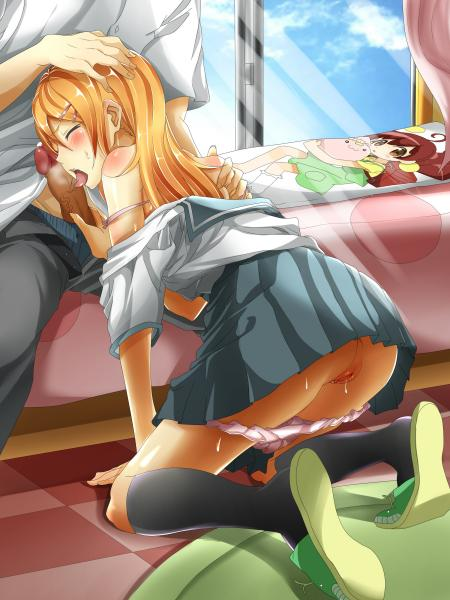
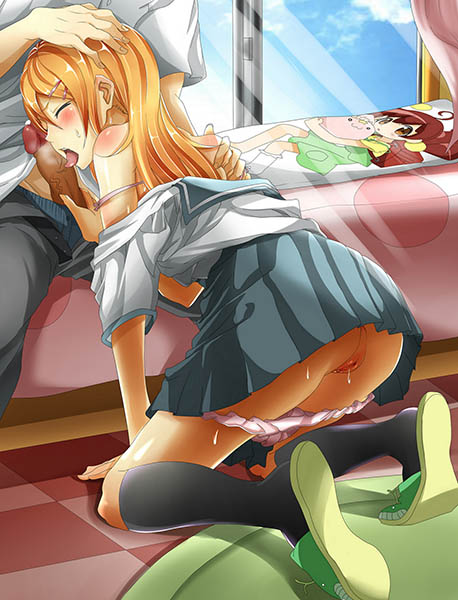
Additional images for Kirino
Replaced Group4.jpg, as this depicted female another character from Kirino's source that is not present in this story.

diff --git a/content/girls/Kirino/base.js b/content/girls/Kirino/base.js
@@ -23,20 +23,20 @@ Girls.Kirino = {
   images: {
     basePath: "content/girls/Kirino/images",
     base: "Base.png",
-    refuse: ["Refuse1.jpg", "Refuse2.jpg", "Refuse3.jpg"],
-    tired: ["Tired.jpg", "Tired2.jpg"],
-    soft: ["Soft1.jpg", "Soft2.jpg", "Soft3.jpg", "Soft4.jpg", "Soft5.jpg"],
-    hard: ["Hard1.jpg", "Hard2.jpg", "Hard3.jpg", "Hard4.jpg", "Hard5.jpg", "Hard6.jpg", "Hard7.jpg"],
-    anal: ["Anal1.jpg", "Anal2.jpg", "Anal3.jpg", "Anal4.jpg"],
-    fetish: ["Fet1.jpg", "Fet2.jpg", "Fet3.jpg", "Fet4.jpg", "Fet5.jpg", "Fet6.jpg"],
-    group: ["Group1.jpg", "Group2.jpg", "Group3.jpg", "Group4.jpg"],
-    cleaning: ["Cleaning1.jpg", "Cleaning2.jpg", "Cleaning3.jpg"],
+    refuse: ["Refuse1.jpg", "Refuse2.jpg", "Refuse3.jpg", "Refuse4.jpg", "Refuse5.jpg"],
+    tired: ["Tired.jpg", "Tired2.jpg", "Tired3.jpg", "Tired4.jpg", "Tired5.jpg"],
+    soft: ["Soft1.jpg", "Soft2.jpg", "Soft3.jpg", "Soft4.jpg", "Soft5.jpg", "Soft6.jpg", "Soft7.jpg", "Soft8.jpg", "Soft9.jpg", "Soft10.jpg", "Soft11.jpg"],
+    hard: ["Hard1.jpg", "Hard2.jpg", "Hard3.jpg", "Hard4.jpg", "Hard5.jpg", "Hard6.jpg", "Hard7.jpg", "Hard8.jpg", "Hard9.jpg"],
+    anal: ["Anal1.jpg", "Anal2.jpg", "Anal3.jpg", "Anal4.jpg", "Anal5.jpg", "Anal6.jpg", "Anal7.jpg"],
+    fetish: ["Fet1.jpg", "Fet2.jpg", "Fet3.jpg", "Fet4.jpg", "Fet5.jpg", "Fet6.jpg", "Fet7.jpg", "Fet8.jpg", "Fet9.jpg"],
+    group: ["Group1.jpg", "Group2.jpg", "Group3.jpg", "Group4.jpg", "Group5.jpg"],
+    cleaning: ["Cleaning1.jpg", "Cleaning2.jpg", "Cleaning3.jpg", "Cleaning4.jpg", "Cleaning5.jpg", "Cleaning6.jpg"],
     exercise: ["Exercise1.jpg", "Exercise2.jpg", "Exercise3.jpg", "Exercise4.jpg"],
     study: ["Study1.jpg", "Study2.jpg", "Study3.jpg"],
     naked: ["Naked1.jpg", "Naked2.jpg", "Naked3.jpg", "Naked4.jpg", "Naked5.jpg"],
-    prison: "Prison.jpg",
-    tentacles: ["Fet1.jpg", "Fet3.jpg", "Fet4.jpg"],
-    pregnant: "Pregnant.jpg"
+    prison: ["Prison.jpg", "Prison2.jpg"],
+    tentacles: "Tentacles1.png",
+    pregnant: ["Pregnant.jpg", "Pregnant2.jpg"],
   },
   Actions: {
     Talk: $.extend(true, { results: {
